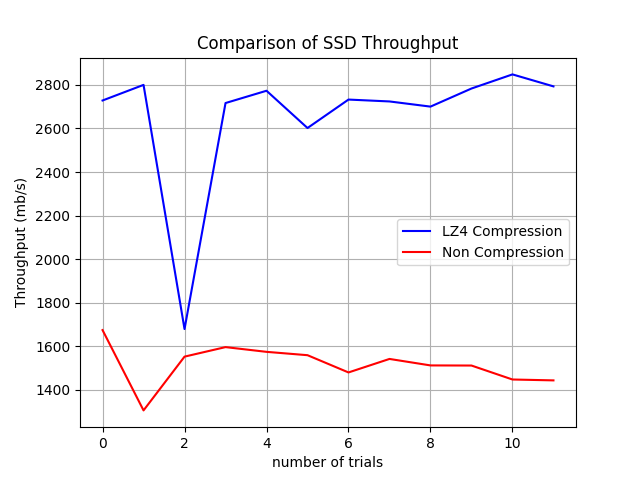
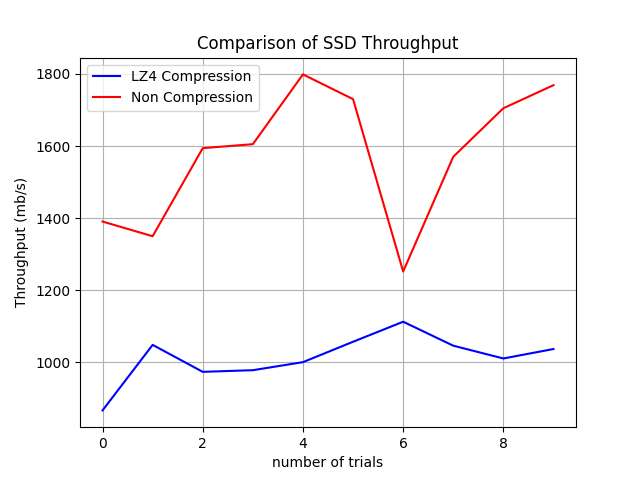
2025/01/21 - LZ4 Zstandard Enum implementation

diff --git a/interface/vectored_main.c b/interface/vectored_main.c
@@ -13,6 +13,7 @@
 #include "vectored_interface.h"
 #include "../include/utils/kvssd.h"
 #include <lz4.h>
+#include <zstd.h>
 
 extern int req_cnt_test;
 extern uint64_t dm_intr_cnt;
@@ -31,10 +32,14 @@ extern uint64_t cumulative_type_cnt[LREQ_TYPE_NUM];
 bool islob = false;
 uint64_t number = 0;
 char **buffers;
+char **compression_buffers[50000];
 size_t *buffer_sizes;
+size_t *comp_buffer_sizes;
 int buffer_count;
+int comp_buffer_count;
+double elapsed_time=0;
 
-void csv_to_json_split_buffers(const char *csv_file_path, char **buffers[], size_t *buffer_sizes, int *buffer_count, bool compress = false) {
+void csv_to_json_split_buffers(const char *csv_file_path, char **buffers[], size_t *buffer_sizes, int *buffer_count, comp_type cp) {
     FILE *csv_file = fopen(csv_file_path, "r");
     // FILE *json_file = fopen(json_file_path, "w");
 
@@ -62,14 +67,22 @@ void csv_to_json_split_buffers(const char *csv_file_path, char **buffers[], size
 
     int is_first_row = 1; // is first row?
     int current_buffer_index = 0;
+    int current_comp_buffer_index = 0;
 
-    size_t buffer_capacity = 10*K; // buffer initialization (1MB)
+    size_t buffer_capacity = PAGESIZE; // buffer initialization (8KB == PAGESIZE)
     *buffers = (char **)malloc(sizeof(char *) * 187000); // maximum buffer count
     buffer_sizes = (size_t *)calloc(187000, sizeof(size_t));
     *buffer_count = 1;
 
     (*buffers)[current_buffer_index] = (char *)malloc(buffer_capacity);
     buffer_sizes[current_buffer_index] = 0;
+
+    *compression_buffers = (char **)malloc(sizeof(char *) * 50000); // maximum buffer count
+    comp_buffer_sizes = (size_t *)calloc(50000, sizeof(size_t));
+    comp_buffer_count = 1;
+
+    (*compression_buffers)[current_comp_buffer_index] = (char *)malloc(buffer_capacity);
+    comp_buffer_sizes[current_comp_buffer_index] = 0;
 
     // data handling
     while (fgets(line, sizeof(line), csv_file)) {
@@ -123,46 +136,73 @@ void csv_to_json_split_buffers(const char *csv_file_path, char **buffers[], size
         snprintf((*buffers)[current_buffer_index] + buffer_sizes[current_buffer_index], buffer_capacity - buffer_sizes[current_buffer_index], "  }");
         buffer_sizes[current_buffer_index] += strlen((*buffers)[current_buffer_index] + buffer_sizes[current_buffer_index]);
 
-        // `}`마다 새로운 buffer로 변경
-        if(compress){
+        if (cp < None) {
             const char *json_data = (*buffers)[current_buffer_index];
             int json_size = strlen(json_data) + 1; // 널 문자 포함
 
             // 압축된 데이터를 저장할 버퍼
-            int max_compressed_size = LZ4_compressBound(json_size);
-            char *compressed_data = (char *)malloc(max_compressed_size);
+            int max_compressed_size;
+            int compressed_size;
+            char *compressed_data;
+            struct timeval start, end;
+            switch (cp)
+            {
+            case LZ4:
+                max_compressed_size = LZ4_compressBound(json_size);
+                compressed_data = (char *)malloc(max_compressed_size);
+                gettimeofday(&start, NULL);
+                compressed_size = LZ4_compress_default(json_data, compressed_data, json_size, max_compressed_size);
+                gettimeofday(&end, NULL);
+                break;
+            
+            case ZStandard:
+                max_compressed_size = ZSTD_compressBound(json_size);
+                compressed_data = (char *)malloc(max_compressed_size);
+                gettimeofday(&start, NULL);
+                compressed_size = ZSTD_compress(compressed_data, max_compressed_size, json_data, json_size, 1); // 압축 레벨 
+                gettimeofday(&end, NULL);
+                break;
+            
+            default:
+                break;
+            }
 
-            // 압축 수행
-            int compressed_size = LZ4_compress_default(json_data, compressed_data, json_size, max_compressed_size);
+            // 걸린 시간 계산 (초와 마이크로초를 합산)
+            elapsed_time += (end.tv_sec - start.tv_sec) + 
+                            (end.tv_usec - start.tv_usec) / 1000000.0;
+
             if (compressed_size <= 0) {
                 fprintf(stderr, "Compression failed\n");
                 free(compressed_data);
                 return;
             }
-             free((*buffers)[current_buffer_index]); // 기존 데이터 해제
-            (*buffers)[current_buffer_index] = (char *)malloc(compressed_size); // 압축된 크기만큼 새로 할당
-            memcpy((*buffers)[current_buffer_index], compressed_data, compressed_size); // 압축된 데이터 복사
+
+            // printf("buffer_capacity: %ld and buffer_sizes[%d]: %ld\n", buffer_capacity, current_comp_buffer_index, comp_buffer_sizes[current_comp_buffer_index]);
+            // 기존 데이터 크기 확인 
+            if (comp_buffer_sizes[current_comp_buffer_index] + compressed_size <= buffer_capacity) {
+                // 기존 버퍼에 충분한 공간이 있다면 데이터 복사
+                memcpy((*compression_buffers)[current_comp_buffer_index] + comp_buffer_sizes[current_comp_buffer_index], compressed_data, compressed_size);
+                comp_buffer_sizes[current_comp_buffer_index] += compressed_size;
+            } else {
+                // 충분한 공간이 없으면 새로운 버퍼로 이동
+                // 버퍼 인덱스 증가 및 새 버퍼 초기화
+                current_comp_buffer_index++;
+                (*compression_buffers)[current_comp_buffer_index] = (char *)malloc(buffer_capacity);
+                comp_buffer_sizes[current_comp_buffer_index] = 0;
+                comp_buffer_count++;
+
+                memcpy((*compression_buffers)[current_comp_buffer_index] + comp_buffer_sizes[current_comp_buffer_index], compressed_data, compressed_size);
+                comp_buffer_sizes[current_comp_buffer_index] += compressed_size;
+            }
 
             // 압축된 데이터 메모리 해제
             free(compressed_data);
-            // printf("Original size: %d bytes\n", json_size);
-            // printf("Compressed size: %d bytes\n", compressed_size);
         }
         current_buffer_index++;
         (*buffers)[current_buffer_index] = (char *)malloc(buffer_capacity);
         buffer_sizes[current_buffer_index] = 0;
         (*buffer_count)++;
         is_first_row = 0;
-
-        // 버퍼 크기 초과 방지
-        if (buffer_sizes[current_buffer_index] > buffer_capacity - 4096) {
-            buffer_capacity *= 2;
-            (*buffers)[current_buffer_index] = (char *)realloc((*buffers)[current_buffer_index], buffer_capacity);
-            if (!(*buffers)[current_buffer_index]) {
-                perror("Failed to reallocate memory for buffer");
-                exit(EXIT_FAILURE);
-            }
-        }
     }
 
     // fprintf(json_file, "\n]\n"); // JSON 배열 끝
@@ -171,17 +211,21 @@ void csv_to_json_split_buffers(const char *csv_file_path, char **buffers[], size
     fclose(csv_file);
     // fclose(json_file);
 
-    number = (*buffer_count / 1024) * 1024;
+    if(cp >= None)
+        number = (*buffer_count / 1024) * 1024;
+    else
+        number = (comp_buffer_count / 1024) * 1024;
     printf("buffer count: %d and number: %ld\n", *buffer_count, number);
 
     // printf("Converted CSV to JSON: %s\n", json_file_path);
     printf("Total Buffers: %d\n", *buffer_count);
+    printf("Total compression time: %f\n", elapsed_time);
 }   
 
 
 
 int main(int argc,char* argv[]){
-	csv_to_json_split_buffers("BTC_1sec.csv", &buffers, buffer_sizes, &buffer_count, false);
+	csv_to_json_split_buffers("BTC_1sec.csv", &buffers, buffer_sizes, &buffer_count, ZStandard);
 
 	//int temp_cnt=bench_set_params(argc,argv,temp_argv);
 	inf_init(0,0,argc,argv);
@@ -219,7 +263,12 @@ int main(int argc,char* argv[]){
     for (int i = 0; i < buffer_count; i++) {
         free(buffers[i]); // 메모리 해제
     }
+    for (int i = 0; i < comp_buffer_count; i++)
+    {
+        free(compression_buffers[i]);
+    }
     free(buffers);
     free(buffer_sizes);
+    free(comp_buffer_sizes);
 	return 0;
 }

diff --git a/bench/bench.c b/bench/bench.c
@@ -21,6 +21,7 @@ int VALUESIZE;
 bool last_ack;
 int seq_padding_opt;
 extern int32_t write_stop;
+extern double elapsed_time;
 
 master *_master;
 #ifndef KVSSD
@@ -384,16 +385,17 @@ void bench_print(){
 		else{
 			_m->benchTime.adding.tv_sec+=_m->benchTime.adding.tv_usec/1000000;
 			_m->benchTime.adding.tv_usec%=1000000;
+			double total_time=_m->benchTime.adding.tv_sec+(double)_m->benchTime.adding.tv_usec/1000000;
 			FILE *file = fopen("non_compressed_time.csv", "a");
 			if (!file) {
 				perror("Failed to open file");
 			}
+			//fprintf(file, "x\n");
 			printf("[all_time]: %ld.%ld\n",_m->benchTime.adding.tv_sec,_m->benchTime.adding.tv_usec);
-			fprintf(file, "%ld.%ld\n",_m->benchTime.adding.tv_sec,_m->benchTime.adding.tv_usec );
+			fprintf(file, "%lf\n", total_time + elapsed_time);
 			fclose(file);
 			uint64_t total_data=(PAGESIZE * _m->m_num)/1024;
 			printf("[size]: %lf(mb)\n",(double)total_data/1024);
-			double total_time=_m->benchTime.adding.tv_sec+(double)_m->benchTime.adding.tv_usec/1000000;
 			double throughput=(double)total_data/total_time;
 			double sr=1-((double)_m->notfound/_m->m_num);
 			throughput*=sr;
@@ -403,6 +405,7 @@ void bench_print(){
 			if (!files) {
 				perror("Failed to open file");
 			}
+			//fprintf(files, "x\n");
 			fprintf(stderr,"[throughput] %lf(kb/s)\n",throughput);
 			fprintf(stderr,"             %lf(mb/s)\n",throughput/1024);
 			fprintf(files, "%lf\n",throughput/1024);

diff --git a/interface/vectored_interface.c b/interface/vectored_interface.c
@@ -14,7 +14,7 @@
 extern master_processor mp;
 extern tag_manager *tm;
 extern char** buffers;
-extern char** compressed_buffers;
+extern char** compression_buffers;
 static int32_t flying_cnt = QDEPTH;
 static pthread_mutex_t flying_cnt_lock=PTHREAD_MUTEX_INITIALIZER; 
 bool vectored_end_req (request * const req);

diff --git a/include/types.h b/include/types.h
@@ -57,4 +57,12 @@ typedef enum{
 typedef enum{
 	MASTER_SEGMENT,MASTER_BLOCK,MASTER_PAGE
 }layout_type;
+
+typedef enum {
+    LZ4,
+	ZStandard,
+	Snappy,
+	None,
+} comp_type;
+
 #endif
